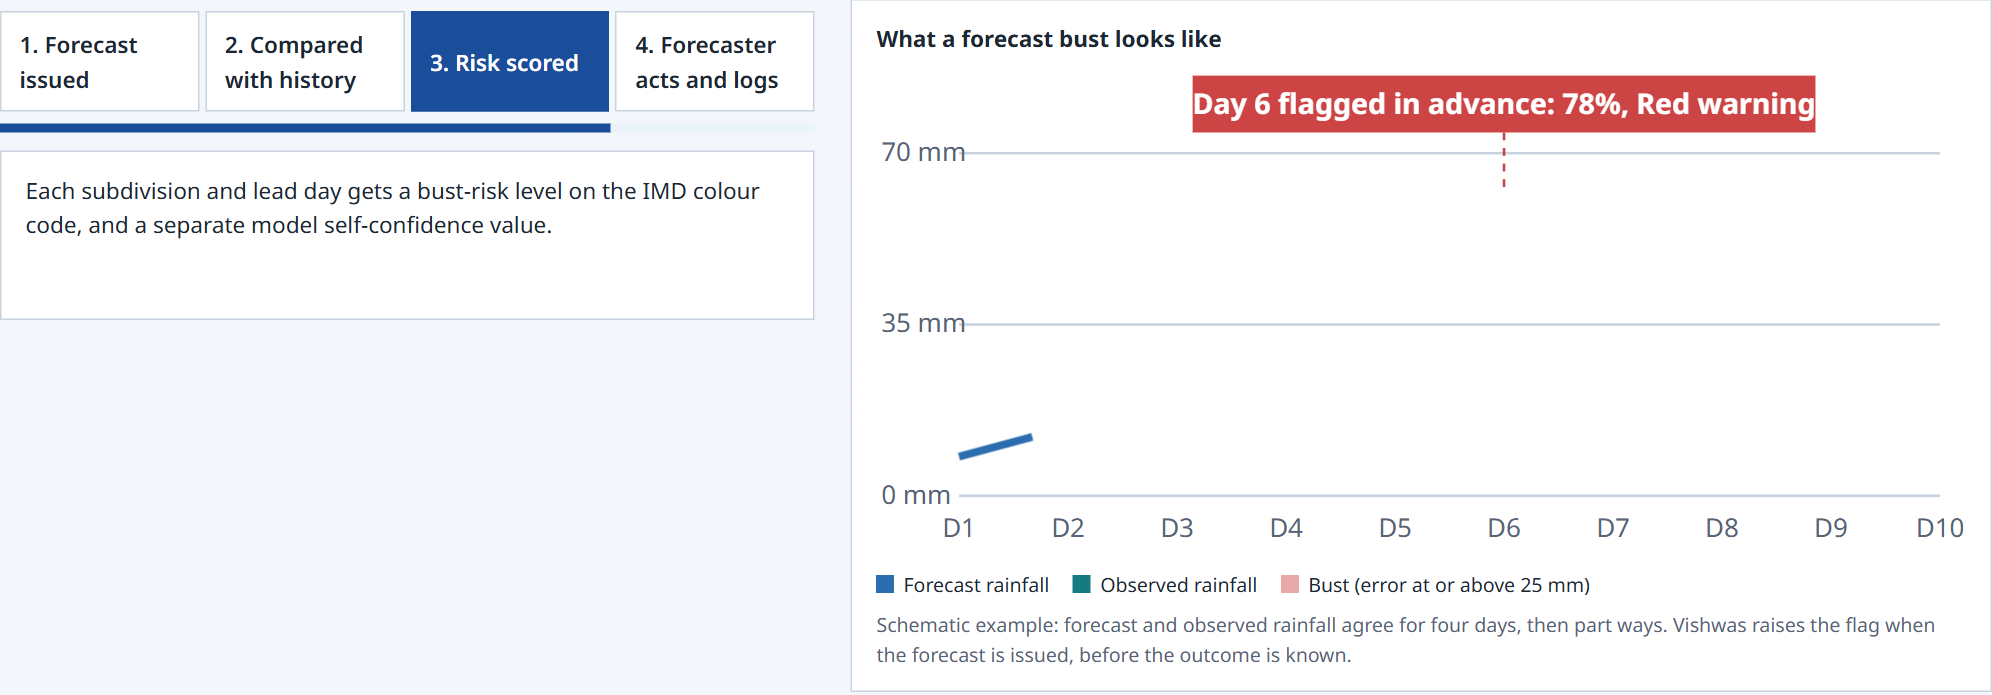
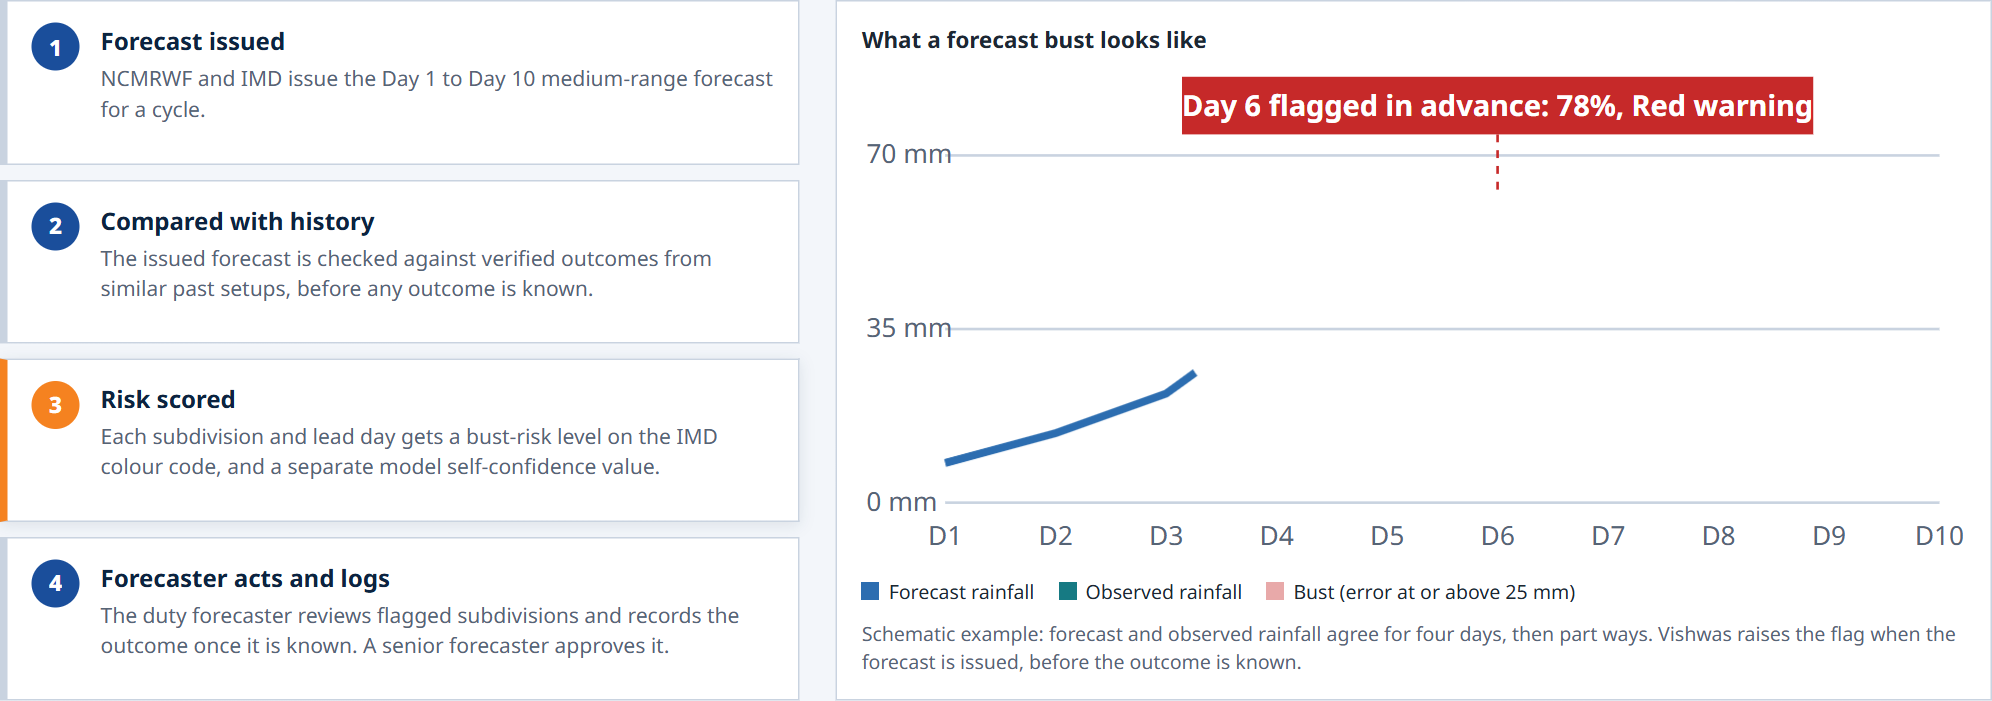
Landing page: government-style section headings, step cards, role band, uniform information cards

diff --git a/frontend/index.html b/frontend/index.html
@@ -538,6 +538,30 @@ body.loading-data main section[data-view]{visibility:hidden}
 @keyframes assist-pulse{0%,100%{box-shadow:0 0 0 0 rgba(198,40,40,.5)}50%{box-shadow:0 0 0 8px rgba(198,40,40,0)}}
 .assist-send{border:1px solid var(--blue);background:var(--blue);color:#fff;border-radius:10px;padding:0 14px;height:38px;flex-shrink:0}
 .assist-status{font-size:.75rem;color:var(--muted);padding:0 16px 10px}
+/* ===== Landing page, government style ===== */
+.sech{border-bottom:0;position:relative;padding-bottom:12px;margin:40px 0 18px;font-size:1.375rem;color:var(--ink)}
+.sech::after{content:"";position:absolute;left:0;bottom:0;width:64px;height:4px;background:#F58220}
+.land-band{background:var(--sky);border-top:1px solid var(--line);border-bottom:1px solid var(--line);margin-top:40px;padding:2px 0 36px}
+.land-band .sech{margin-top:30px}
+#v-home .how{grid-template-columns:minmax(0,.9fr) minmax(0,1.3fr);gap:24px;align-items:stretch}
+#v-home .how>div:first-child{display:flex;flex-direction:column}
+#v-home .how .pbar,#v-home .how .l-sb{display:none}
+#l-steps{grid-template-columns:1fr;grid-auto-rows:1fr;gap:10px;margin:0;flex:1}
+#l-steps .ps{display:flex;gap:14px;align-items:flex-start;padding:14px 16px;background:var(--panel);color:var(--text);border:1px solid var(--line);border-left:5px solid var(--line);font-weight:400;transition:border-color .2s,box-shadow .2s}
+#l-steps .ps[aria-selected="true"]{background:var(--panel);color:var(--text);border-color:var(--line);border-left-color:#F58220;box-shadow:0 2px 10px rgba(12,35,64,.10)}
+#l-steps .psn{flex:none;width:32px;height:32px;border-radius:50%;background:var(--blue);color:#fff;display:grid;place-items:center;font-weight:800}
+#l-steps .ps[aria-selected="true"] .psn{background:#F58220}
+#l-steps .ps b{display:block;color:var(--ink);font-size:1rem;margin-bottom:3px}
+#l-steps .psb{display:block;font-size:.875rem;color:var(--muted);line-height:1.45}
+.rtabs{grid-template-columns:280px minmax(0,1fr)}
+.rtl button{min-height:58px}
+.infog{gap:16px}
+.infol{--c:var(--blue)!important;border-top:4px solid var(--blue);padding:18px;box-shadow:0 1px 3px rgba(12,35,64,.06)}
+.infol:hover{background:var(--panel);border-top-color:#F58220;box-shadow:0 4px 14px rgba(12,35,64,.12)}
+.infol .ii{background:var(--blue)}
+.infol b{font-size:1.0625rem;margin-bottom:4px}
+@media (max-width:1100px){.infog{grid-template-columns:repeat(2,1fr)}}
+@media (max-width:860px){.infog{grid-template-columns:1fr}.rtabs{grid-template-columns:1fr}#l-steps{grid-auto-rows:auto}}
 </style>
 </head>
 <body class="out">
@@ -659,7 +683,7 @@ body.loading-data main section[data-view]{visibility:hidden}
       <div>
         <div class="pipe" id="l-steps" role="tablist" aria-label="How it works"></div>
         <div class="pbar"><i id="l-pbar"></i></div>
-        <div class="panel"><p class="pbody" id="l-sbody" role="status"></p></div>
+        <div class="panel l-sb"><p class="pbody" id="l-sbody" role="status"></p></div>
       </div>
       <div class="panel">
         <h3 class="mt" style="margin-bottom:6px">What a forecast bust looks like</h3>
@@ -668,6 +692,8 @@ body.loading-data main section[data-view]{visibility:hidden}
       </div>
     </div>
 
+  </div>
+  <div class="land-band"><div class="wrap">
     <h2 class="sech">Who uses Vishwas</h2>
     <p class="lead">Each person signs in with their own ID and holds one role. Each role opens a different workspace.</p>
     <div class="rtabs">
@@ -675,12 +701,14 @@ body.loading-data main section[data-view]{visibility:hidden}
       <div class="panel rp" id="l-rpanel" role="tabpanel"></div>
     </div>
 
+  </div></div>
+  <div class="wrap">
     <h2 class="sech">Information</h2>
     <div class="infog">
-      <a class="panel infol" href="#/methodology" style="--c:var(--teal)"><span class="ii"><svg viewBox="0 0 24 24" aria-hidden="true"><path d="M4 5a2 2 0 0 1 2-2h13v16H6a2 2 0 0 0-2 2z"/><path d="M4 19V5M8 7h7"/></svg></span><div><b>Methodology</b>What Vishwas does and does not do, with two interactive tools.</div></a>
-      <a class="panel infol" href="#/sources" style="--c:var(--blue)"><span class="ii"><svg viewBox="0 0 24 24" aria-hidden="true"><ellipse cx="12" cy="6" rx="8" ry="3"/><path d="M4 6v6c0 1.7 3.6 3 8 3s8-1.3 8-3V6M4 12v6c0 1.7 3.6 3 8 3s8-1.3 8-3v-6"/></svg></span><div><b>Data sources</b>The three archives Vishwas learns from, and how they combine.</div></a>
-      <a class="panel infol" href="#/api" style="--c:var(--navy)"><span class="ii"><svg viewBox="0 0 24 24" aria-hidden="true"><path d="M8 8l-4 4 4 4M16 8l4 4-4 4M14 5l-4 14"/></svg></span><div><b>API</b>The interface a backend provides: endpoints, allowed roles and sample responses.</div></a>
-      <a class="panel infol" href="#/help" style="--c:var(--steel)"><span class="ii"><svg viewBox="0 0 24 24" aria-hidden="true"><circle cx="12" cy="12" r="9"/><path d="M9.5 9.5a2.5 2.5 0 1 1 3.5 2.3c-.7.4-1 .9-1 1.7M12 17h.01"/></svg></span><div><b>Help and glossary</b>Accessibility, roles and permissions, and the meaning of each term.</div></a>
+      <a class="panel infol" href="#/methodology" style="--c:var(--teal)"><span class="ii"><svg viewBox="0 0 24 24" aria-hidden="true"><path d="M4 5a2 2 0 0 1 2-2h13v16H6a2 2 0 0 0-2 2z"/><path d="M4 19V5M8 7h7"/></svg></span><div><b>Methodology</b>How Vishwas works, what counts as a bust, and how well it performs.</div></a>
+      <a class="panel infol" href="#/sources" style="--c:var(--blue)"><span class="ii"><svg viewBox="0 0 24 24" aria-hidden="true"><ellipse cx="12" cy="6" rx="8" ry="3"/><path d="M4 6v6c0 1.7 3.6 3 8 3s8-1.3 8-3V6M4 12v6c0 1.7 3.6 3 8 3s8-1.3 8-3v-6"/></svg></span><div><b>Data sources</b>NCMRWF forecasts, IMD rainfall and IMD boundaries, and how they combine.</div></a>
+      <a class="panel infol" href="#/api" style="--c:var(--navy)"><span class="ii"><svg viewBox="0 0 24 24" aria-hidden="true"><path d="M8 8l-4 4 4 4M16 8l4 4-4 4M14 5l-4 14"/></svg></span><div><b>API</b>The Vishwas REST API: endpoints, allowed roles and example responses.</div></a>
+      <a class="panel infol" href="#/help" style="--c:var(--steel)"><span class="ii"><svg viewBox="0 0 24 24" aria-hidden="true"><circle cx="12" cy="12" r="9"/><path d="M9.5 9.5a2.5 2.5 0 1 1 3.5 2.3c-.7.4-1 .9-1 1.7M12 17h.01"/></svg></span><div><b>Help and glossary</b>Getting started, roles and permissions, accessibility and key terms.</div></a>
     </div>
   </div>
 </section>
@@ -1144,7 +1172,7 @@ body.loading-data main section[data-view]{visibility:hidden}
       <p>Prototype built for Smart India Hackathon 2026, Problem Statement 26079: AI-Based Forecast Bust Detection for Medium-Range Weather Forecasts.</p>
     </div>
   </div>
-  <div class="wrap foot-b">Last reviewed: 30 September 2026<i class="vsep">|</i>Signed-in pages: model output replaying NCMRWF's 1993 to 2015 reforecast archive, not a live feed. Landing page and API samples: illustrative data.</div>
+  <div class="wrap foot-b">Last reviewed: 30 September 2026<i class="vsep">|</i>Signed-in pages: model output replaying NCMRWF's 1993 to 2015 reforecast archive, not a live feed. Landing-page map: sample.</div>
 </footer>
 
 <script src="india_map.js"></script>
@@ -1723,7 +1751,7 @@ function paintRot(){
   setTimeout(function(){el.textContent=ROT[S.rot];el.style.opacity=1},200);
 }
 function paintLandStep(){
-  $("#l-steps").innerHTML=LSTEPS.map(function(s,i){return '<button type="button" role="tab" class="ps" data-i="'+i+'" aria-selected="'+(S.landStep===i)+'">'+(i+1)+'. '+s.h+'</button>'}).join("");
+  $("#l-steps").innerHTML=LSTEPS.map(function(s,i){return '<button type="button" role="tab" class="ps" data-i="'+i+'" aria-selected="'+(S.landStep===i)+'"><span class="psn">'+(i+1)+'</span><span><b>'+s.h+'</b><span class="psb">'+s.b+'</span></span></button>'}).join("");
   $$("#l-steps .ps").forEach(function(b){b.addEventListener("click",function(){S.landStep=+b.dataset.i;S.landStepUser=true;paintLandStep()})});
   $("#l-pbar").style.width=((S.landStep+1)/LSTEPS.length*100)+"%";
   $("#l-sbody").textContent=LSTEPS[S.landStep].b;
